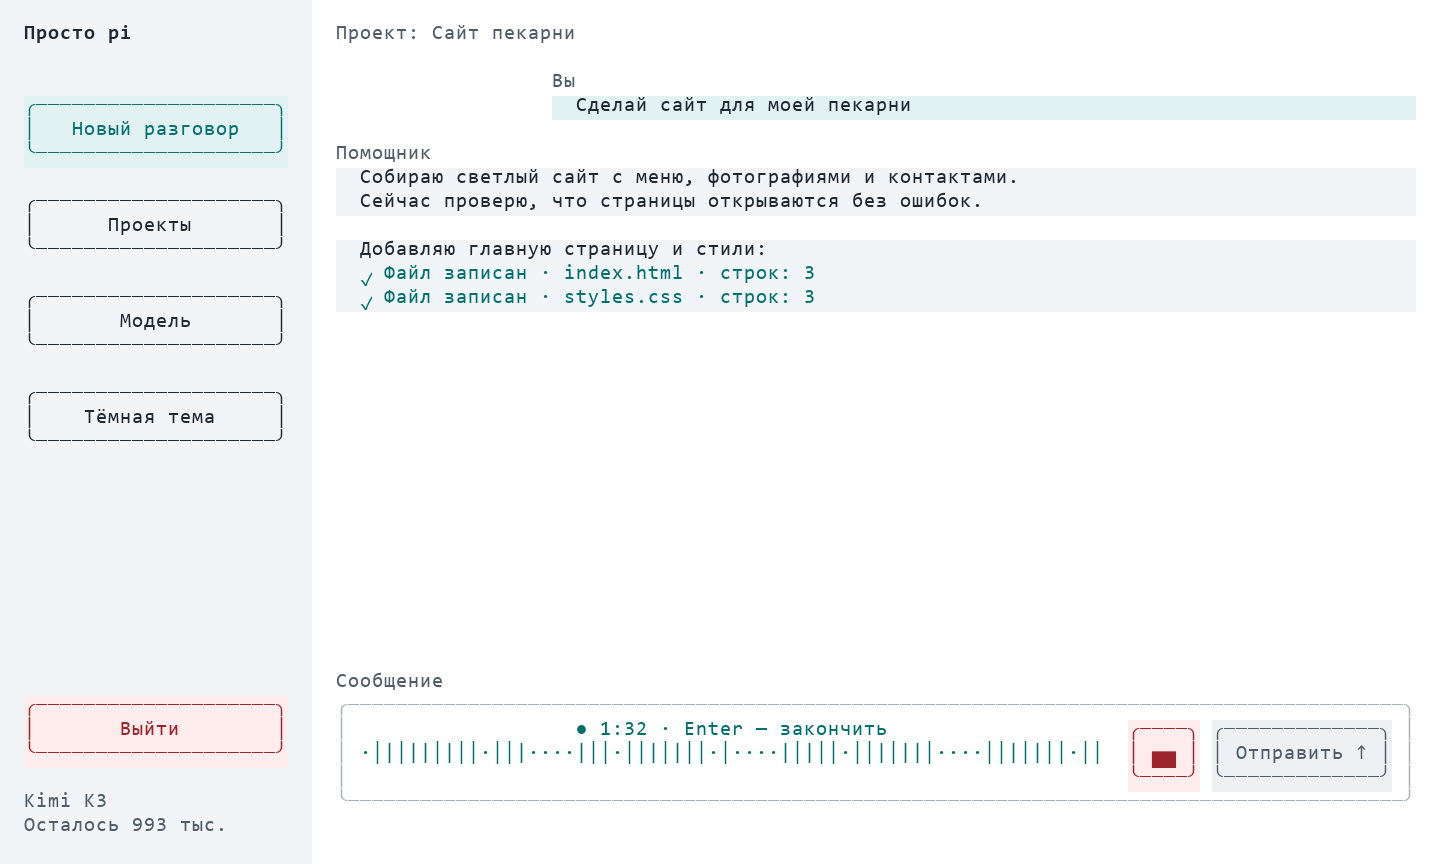
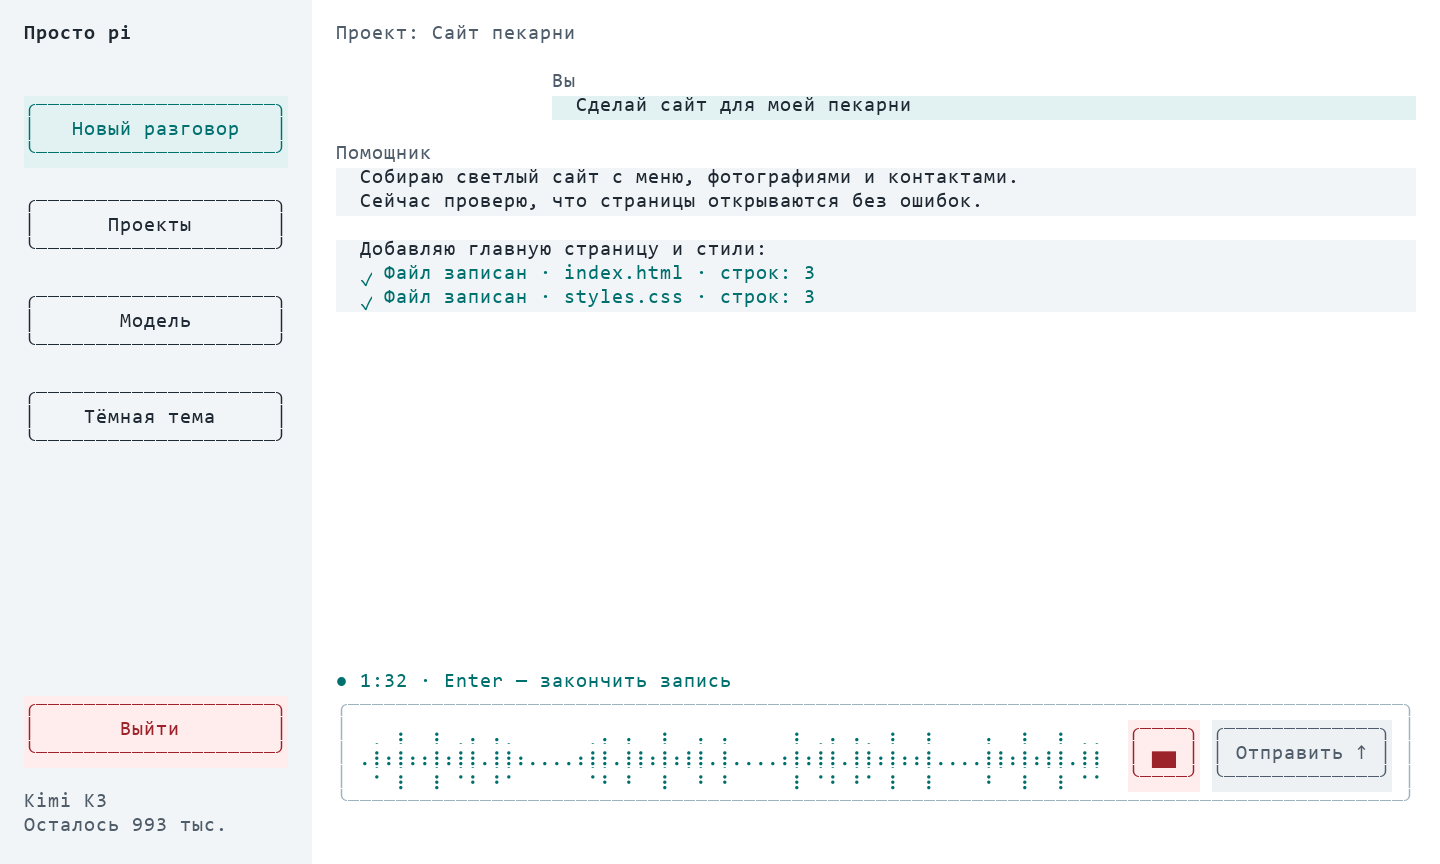
Rasterize centered voice bars at six distinct heights

diff --git a/design/render_preview.py b/design/render_preview.py
@@ -29,6 +29,6 @@ for mode in ['work','error','history','chats','form','exit','project-choice','vo
     for char in part:
      cells=2 if char=='🎤' else 1
      d.rectangle((x*cw,y*ch,(x+cells)*cw-1,(y+1)*ch-1),fill=bg)
-     font=ImageFont.truetype('C:/Windows/Fonts/seguiemj.ttf',20) if char=='🎤' else ImageFont.truetype('C:/Windows/Fonts/seguisym.ttf',20) if char in '✓◌▁▂▃▄▅▆▇█⠆' else fonts[bold]
+     font=ImageFont.truetype('C:/Windows/Fonts/seguiemj.ttf',20) if char=='🎤' else ImageFont.truetype('C:/Windows/Fonts/seguisym.ttf',20) if char in '✓◌▁▂▃▄▅▆▇█' or 0x2800<=ord(char)<=0x28ff else fonts[bold]
      d.text((x*cw,y*ch),char,font=font,fill=fg);x+=cells
  im.save(root/f'preview-{mode}.png')

diff --git a/README.md b/README.md
@@ -123,3 +123,5 @@ MIT.
 Во время записи внутри поля ввода показана история громкости: новые значения появляются справа и сдвигаются влево, тишина обозначается точками. Enter завершает запись и запускает распознавание; отправка текста остаётся ручной.
 
 При записи дорожка из тонких вертикальных символов заменяет черновик без увеличения высоты поля. Черновик сохраняется и снова отображается после распознавания.
+
+Звуковая дорожка рисуется точками Braille: в стандартном поле из трёх строк доступны шесть симметричных высот столбиков. Это точечная терминальная графика; форма точек зависит от шрифта, но высота задаётся числом точек, а не толщиной символа.
